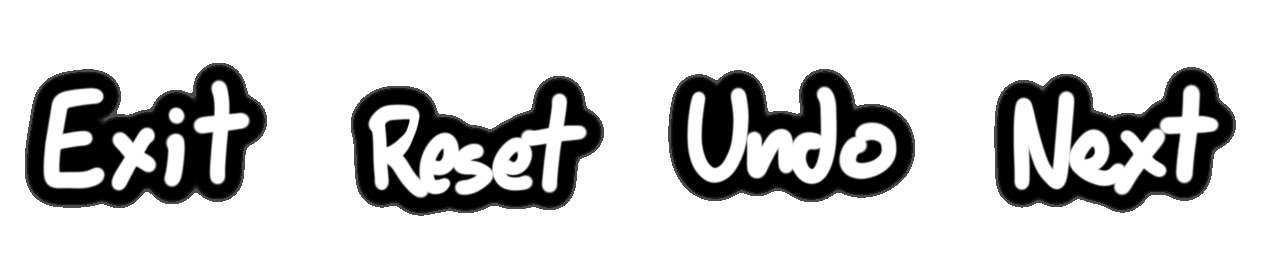
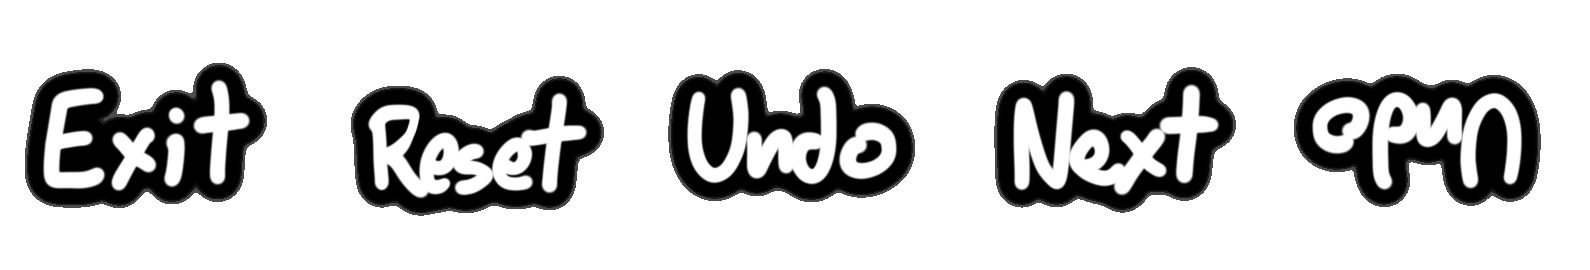
Back to the future

Changed region(s): [[0.0, 0.237, 0.9788, 0.8]]

diff --git a/src/game/history.rs b/src/game/history.rs
@@ -9,7 +9,7 @@ use bevy::prelude::*;
 
 pub(super) fn plugin(app: &mut App) {
 	app.init_resource::<MoveHistory>()
-		.add_message::<UndoMove>()
+		.add_message::<AlterHistory>()
 		.add_systems(LevelInitialization, |mut history: ResMut<MoveHistory>| {
 			history.clear()
 		})
@@ -27,12 +27,80 @@ pub(super) fn plugin(app: &mut App) {
 }
 
 /// Records the history of moves within a single session of a level
-#[derive(Resource, Deref, DerefMut, Clone, Debug, Default)]
-pub struct MoveHistory(pub Vec<RotateCycle>);
+#[derive(Resource, Clone, Debug, Default)]
+pub struct MoveHistory {
+	/// Moves that have been recorded so far
+	moves: Vec<RotateCycle>,
+	/// Index into [`Self::moves`] that indicates the current state
+	cursor: usize,
+}
 
-/// Message that is sent to signal that a move should be rewound
-#[derive(Message, Debug)]
-pub struct UndoMove;
+impl MoveHistory {
+	pub fn clear(&mut self) {
+		*self = default();
+	}
+
+	fn push(&mut self, rotation: RotateCycle) {
+		// Drop everything from the old history branch
+		self.moves.truncate(self.cursor);
+		self.moves.push(rotation);
+		self.cursor += 1;
+	}
+
+	fn undo(&mut self) -> Option<RotateCycle> {
+		if self.cursor == 0 {
+			None
+		} else {
+			self.cursor -= 1;
+			// This should always be Some, but play it safe
+			// Return the reversed move (the move that has to be done to undo it)
+			self.moves.get(self.cursor).copied().map(|mut r| {
+				r.amount *= -1;
+				r
+			})
+		}
+	}
+
+	fn redo(&mut self) -> Option<RotateCycle> {
+		self.moves
+			.get(self.cursor)
+			.copied()
+			.inspect(|_| self.cursor += 1)
+	}
+
+	pub fn has_undoable_move(&self) -> bool {
+		self.cursor > 0
+	}
+
+	pub fn has_redoable_move(&self) -> bool {
+		self.cursor < self.moves.len()
+	}
+}
+
+/// Message that is sent to signal that history traversal should be performed
+#[derive(Message, Clone, Copy, PartialEq, Eq, Debug)]
+pub enum AlterHistory {
+	Undo,
+	Redo,
+}
+
+impl AlterHistory {
+	/// Plays the history traversal action on a history resource
+	fn execute(self, history: &mut MoveHistory) -> Option<RotateCycle> {
+		match self {
+			Self::Undo => history.undo(),
+			Self::Redo => history.redo(),
+		}
+	}
+
+	/// Gets the appropriate [`RotationCause`] for the message
+	fn to_rotation_cause(self) -> RotationCause {
+		match self {
+			Self::Undo => RotationCause::Undo,
+			Self::Redo => RotationCause::Redo,
+		}
+	}
+}
 
 fn record_moves(
 	mut history: ResMut<MoveHistory>,
@@ -47,19 +115,128 @@ fn record_moves(
 }
 
 fn undo_moves(
-	mut events: MessageReader<UndoMove>,
+	mut events: MessageReader<AlterHistory>,
 	mut history: ResMut<MoveHistory>,
 	mut rotations: MessageWriter<RotateCycleGroup>,
 ) {
-	for _ in events.read() {
-		if let Some(mut rotation) = history.pop() {
-			rotation.amount *= -1;
+	for alter in events.read() {
+		if let Some(rotation) = alter.execute(&mut history) {
 			rotations.write(RotateCycleGroup {
 				rotation,
-				cause: RotationCause::Undo,
+				cause: alter.to_rotation_cause(),
 			});
 		} else {
-			log::warn!("Undo command received, but no moves have been recorded");
+			log::warn!("History traversal command received, but no moves are available");
 		}
+	}
+}
+
+#[cfg(test)]
+mod test {
+	use super::*;
+
+	#[test]
+	fn empty_history() {
+		let mut history = MoveHistory::default();
+		assert!(!history.has_undoable_move());
+		assert!(!history.has_redoable_move());
+		assert!(history.undo().is_none());
+		assert!(history.redo().is_none());
+	}
+
+	#[test]
+	fn undo_test() {
+		let mut history = MoveHistory::default();
+		history.push(RotateCycle {
+			target_cycle: 0,
+			amount: 1,
+		});
+		history.push(RotateCycle {
+			target_cycle: 1,
+			amount: 2,
+		});
+		history.push(RotateCycle {
+			target_cycle: 2,
+			amount: -4,
+		});
+
+		assert!(history.has_undoable_move());
+		assert!(!history.has_redoable_move());
+		assert!(history.redo().is_none());
+
+		assert_eq!(
+			history.undo(),
+			Some(RotateCycle {
+				target_cycle: 2,
+				amount: 4
+			})
+		);
+		assert_eq!(
+			history.undo(),
+			Some(RotateCycle {
+				target_cycle: 1,
+				amount: -2
+			})
+		);
+		assert_eq!(
+			history.undo(),
+			Some(RotateCycle {
+				target_cycle: 0,
+				amount: -1
+			})
+		);
+		assert_eq!(history.undo(), None);
+	}
+
+	#[test]
+	fn redo_test() {
+		let mut history = MoveHistory::default();
+		history.push(RotateCycle {
+			target_cycle: 0,
+			amount: 1,
+		});
+		assert!(history.undo().is_some());
+
+		assert!(history.has_redoable_move());
+		assert_eq!(
+			history.redo(),
+			Some(RotateCycle {
+				target_cycle: 0,
+				amount: 1
+			})
+		);
+
+		assert!(!history.has_redoable_move());
+		assert!(history.has_undoable_move());
+		assert_eq!(
+			history.undo(),
+			Some(RotateCycle {
+				target_cycle: 0,
+				amount: -1
+			})
+		);
+	}
+
+	#[test]
+	fn cut_off_history() {
+		let mut history = MoveHistory::default();
+		history.push(RotateCycle {
+			target_cycle: 0,
+			amount: 1,
+		});
+		history.push(RotateCycle {
+			target_cycle: 1,
+			amount: 2,
+		});
+		assert!(history.undo().is_some());
+		assert!(history.undo().is_some());
+
+		history.push(RotateCycle {
+			target_cycle: 2,
+			amount: 1,
+		});
+
+		assert!(!history.has_redoable_move());
+		assert!(history.redo().is_none());
 	}
 }

diff --git a/src/screen/playing.rs b/src/screen/playing.rs
@@ -37,7 +37,7 @@ pub(super) fn plugin(app: &mut App) {
 				(
 					send_message(GameUiAction::Reset).run_if(
 						char_input_pressed('r')
-							.and(|history: Res<MoveHistory>| !history.is_empty()),
+							.and(|history: Res<MoveHistory>| history.has_undoable_move()),
 					),
 					send_message(GameUiAction::NextLevel).run_if(
 						char_input_pressed('n')
@@ -45,7 +45,11 @@ pub(super) fn plugin(app: &mut App) {
 					),
 					send_message(GameUiAction::Undo).run_if(
 						char_input_pressed('z')
-							.and(|history: Res<MoveHistory>| !history.is_empty()),
+							.and(|history: Res<MoveHistory>| history.has_undoable_move()),
+					),
+					send_message(GameUiAction::Redo).run_if(
+						char_input_pressed('y')
+							.and(|history: Res<MoveHistory>| history.has_redoable_move()),
 					),
 					game_ui_input_recording_system,
 				)
@@ -66,7 +70,8 @@ pub(super) fn plugin(app: &mut App) {
 						.and(resource_equals(IsLevelCompleted(true))),
 				),
 				tick_completion_cue_animation,
-				update_undo_button_display.run_if(resource_changed::<MoveHistory>),
+				(update_undo_button_display, update_redo_button_display)
+					.run_if(resource_changed::<MoveHistory>),
 			)
 				.run_if(in_state(Screen::Playing)),
 		);
@@ -85,6 +90,11 @@ struct NextLevelButton;
 #[derive(Component, Clone, Copy, Debug, Default)]
 #[require(InteractionEnabled(false))]
 struct UndoButton;
+
+/// Marker component for the redo button
+#[derive(Component, Clone, Copy, Debug, Default)]
+#[require(InteractionEnabled(false))]
+struct RedoButton;
 
 /// Marker component for the level name label
 #[derive(Component, Clone, Copy, Debug, Default)]
@@ -110,6 +120,7 @@ enum GameUiAction {
 	Reset,
 	NextLevel,
 	Undo,
+	Redo,
 }
 
 /// Message that is sent to signal that the currently selected level should be (re)loaded
@@ -187,6 +198,14 @@ fn spawn_game_ui(
 						GameUiAction::Undo,
 						UndoButton,
 						HoverHint(hover::UI_UNDO),
+						HoverPriority(hover::prio::STATIC_UI),
+						UseHoverFromInteraction,
+					),
+					(
+						widgets::sprite_button(&button_sprites, UiButtonAtlas::REDO),
+						GameUiAction::Redo,
+						RedoButton,
+						HoverHint(hover::UI_REDO),
 						HoverPriority(hover::prio::STATIC_UI),
 						UseHoverFromInteraction,
 					),
@@ -306,7 +325,7 @@ fn game_ui_input_processing_system(
 	playing_level: PlayingLevelListEntry,
 	mut commands: Commands,
 	mut next_level: ResMut<NextState<PlayingLevel>>,
-	mut undo_commands: MessageWriter<UndoMove>,
+	mut undo_commands: MessageWriter<AlterHistory>,
 ) {
 	if let Some(action) = events.read().last() {
 		match action {
@@ -326,7 +345,10 @@ fn game_ui_input_processing_system(
 				}
 			}
 			GameUiAction::Undo => {
-				undo_commands.write(UndoMove);
+				undo_commands.write(AlterHistory::Undo);
+			}
+			GameUiAction::Redo => {
+				undo_commands.write(AlterHistory::Redo);
 			}
 		}
 	}
@@ -466,7 +488,16 @@ fn update_undo_button_display(
 	mut query: Query<&mut InteractionEnabled, With<UndoButton>>,
 ) {
 	for mut enabled in &mut query {
-		enabled.set_if_neq(InteractionEnabled(!history.is_empty()));
+		enabled.set_if_neq(InteractionEnabled(history.has_undoable_move()));
+	}
+}
+
+fn update_redo_button_display(
+	history: Res<MoveHistory>,
+	mut query: Query<&mut InteractionEnabled, With<RedoButton>>,
+) {
+	for mut enabled in &mut query {
+		enabled.set_if_neq(InteractionEnabled(history.has_redoable_move()));
 	}
 }
 

diff --git a/src/assets.rs b/src/assets.rs
@@ -254,6 +254,8 @@ impl UiButtonAtlas {
 	pub const UNDO: usize = 2;
 	/// Index of the sprite for the next level button
 	pub const PROCEED: usize = 3;
+	/// Index of the sprite for the redo button
+	pub const REDO: usize = 4;
 
 	/// Path to the sprite sheet image
 	const IMAGE_ASSET_PATH: &'static str = "images/ui-buttons.png";
@@ -264,7 +266,7 @@ impl UiButtonAtlas {
 	/// of the sheet, in pixels
 	const PADDING_WIDTH: u32 = 15;
 	/// How many sprites there are (rows and columns)
-	const SPRITE_COUNTS: UVec2 = UVec2::new(4, 1);
+	const SPRITE_COUNTS: UVec2 = UVec2::new(5, 1);
 
 	/// Constructs a [`TextureAtlasLayout`] for the sprite sheet
 	fn construct_atlas_layout() -> TextureAtlasLayout {

diff --git a/src/game/logic_relay.rs b/src/game/logic_relay.rs
@@ -49,7 +49,7 @@ pub struct ComputedCycleTurnability(pub bool);
 pub struct IsTriggered(pub bool);
 
 /// Common data for [`RotateSingleCycle`] and [`RotateCycleGroup`]
-#[derive(Clone, Copy, Debug)]
+#[derive(Clone, Copy, PartialEq, Eq, Debug)]
 pub struct RotateCycle {
 	/// Index of the cycle to rotate
 	pub target_cycle: usize,
@@ -65,6 +65,8 @@ pub enum RotationCause {
 	Manual,
 	/// Rotation command issued to undo a previous action
 	Undo,
+	/// Rotation command issued to replay a previously undone action
+	Redo,
 }
 
 /// Internal message sent to a cycle entity to rotate [`super::components::Object`]

diff --git a/src/game/mod.rs b/src/game/mod.rs
@@ -19,7 +19,7 @@ pub mod prelude {
 	#[allow(unused_imports)]
 	pub use super::{
 		components::{GameStateEcsIndex, LevelHandle, PlayingLevelData},
-		history::{MoveHistory, UndoMove},
+		history::{AlterHistory, MoveHistory},
 		level::LevelData,
 		logic::{GameState, LevelCompletionConditions, TurnCycleResult},
 		logic_relay::{GameLayoutChanged, IsLevelCompleted, RotateCycle},

diff --git a/src/ui/hover.rs b/src/ui/hover.rs
@@ -17,6 +17,7 @@ pub const DETECTOR: &str = "A detector, triggers oneways when something goes thr
 pub const UI_EXIT: &str = "Exit [Esc]";
 pub const UI_RESET: &str = "Reset [R]";
 pub const UI_UNDO: &str = "Undo [Z]";
+pub const UI_REDO: &str = "Redo [Y]";
 pub const UI_NEXT: &str = "Next level [N]";
 
 pub const BLOCKADE_WARNING: &str =
